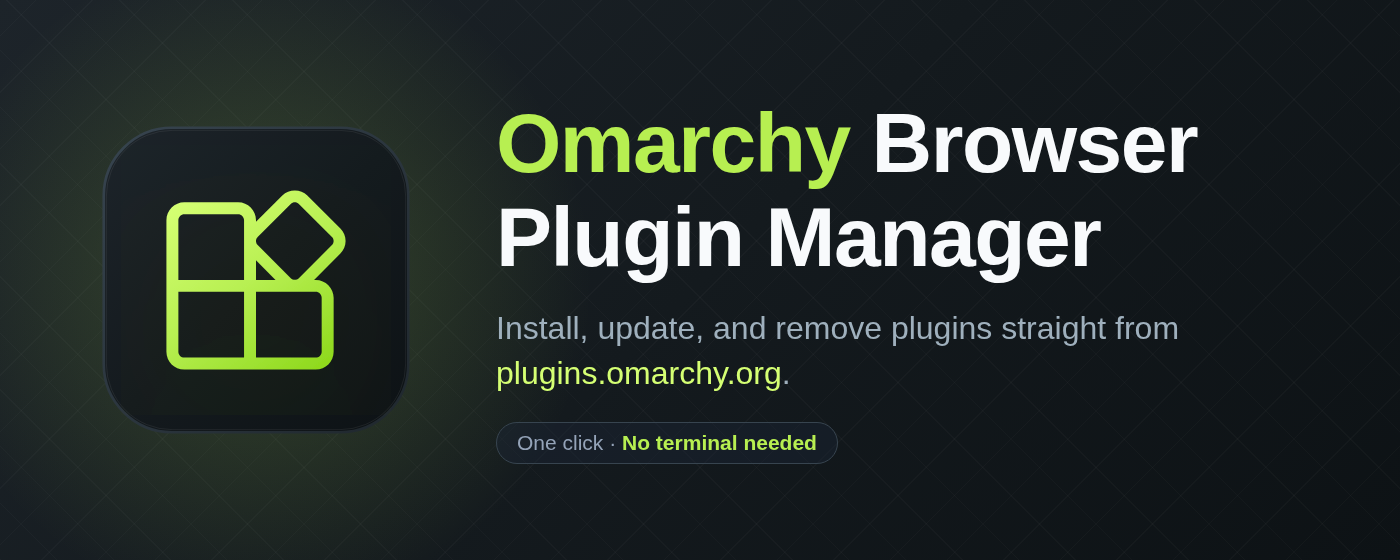
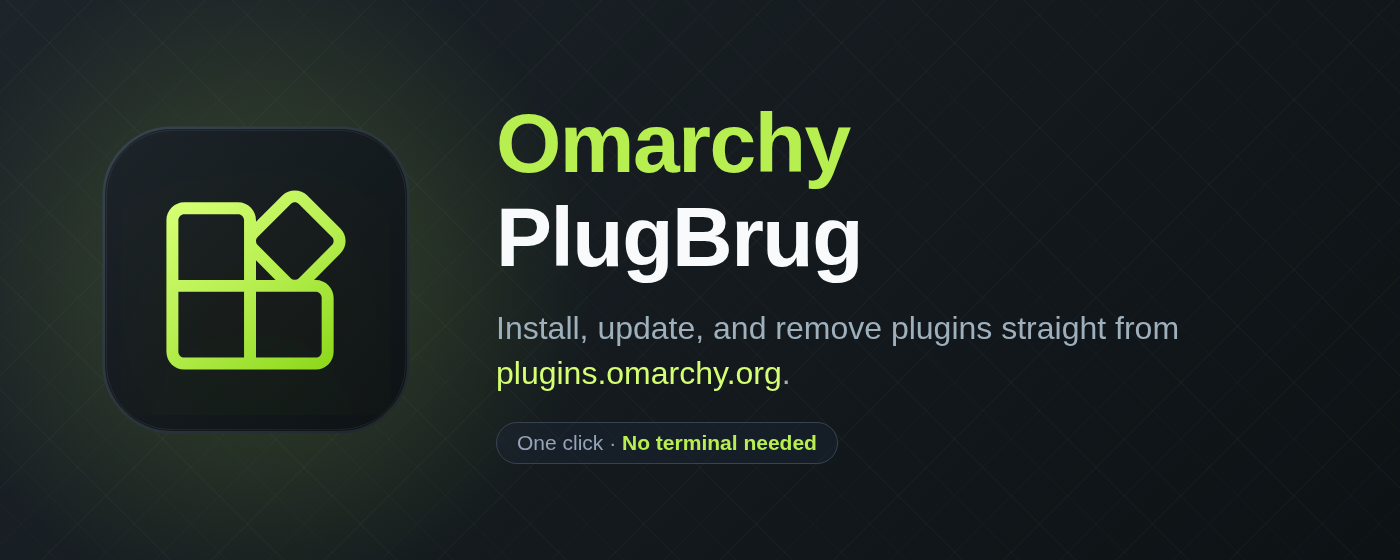
refactor(branding): rename plugin display name to PlugBrug
Rename "Omarchy Browser Plugin Manager" to "Omarchy PlugBrug" across
the shell plugin, extension, scripts, and docs, and update the images:
regenerate the preview banner and Chrome Web Store promo tiles, and
retypeset the settings-panel screenshot header from its own glyphs.

Changed region(s): [[0.4607, 0.3643, 0.7986, 0.5161], [0.6143, 0.1821, 0.86, 0.3036]]

diff --git a/BarWatch.qml b/BarWatch.qml
@@ -5,7 +5,7 @@ import Quickshell.Io
 import qs.Commons
 import qs.Ui
 
-// Omarchy Browser Plugin Manager bar widget (watcher mode).
+// Omarchy PlugBrug bar widget (watcher mode).
 //
 // The icon lights up while a focused browser window has an installable
 // plugin page on its active tab: the extension renews a beacon record with
@@ -1016,6 +1016,7 @@ Panel {
 
   function openMarketplace() {
     Quickshell.execDetached(["xdg-open", root.marketplaceUrl])
+    root.close()
   }
 
   // Install / Uninstall / Update go through the wizard (the project's
@@ -1517,7 +1518,7 @@ Panel {
     activeColor: Color.accent
     tooltipText: (root.beaconLive
       ? root.watchedName() + " \u00b7 open in browser"
-      : "Browser Plugin Manager")
+      : "PlugBrug")
       + (root.eligibleCount > 0
         ? " \u00b7 " + root.eligibleCount + " plugin" + (root.eligibleCount === 1 ? " has" : "s have")
           + " updates (right-click)"
@@ -1770,7 +1771,7 @@ Panel {
 
             Text {
               textFormat: Text.PlainText
-              text: root.popupLive ? root.watchedName() : "Browser Plugin Manager"
+              text: root.popupLive ? root.watchedName() : "PlugBrug"
               font.family: Style.font.family
               font.pixelSize: Style.font.title
               font.bold: true

diff --git a/preview/template.html b/preview/template.html
@@ -2,7 +2,7 @@
 <html lang="en">
 <head>
 <meta charset="UTF-8">
-<title>Browser Plugin Manager Preview Banner</title>
+<title>PlugBrug Preview Banner</title>
 <style>
   * { box-sizing: border-box; margin: 0; padding: 0; }
 
@@ -282,7 +282,7 @@
           <path d="M14 17.5a3.5 3.5 0 0 0 7 0 3.5 3.5 0 0 0-7 0"></path>
         </svg>
       </div>
-      <h1>Browser Plugin Manager</h1>
+      <h1>PlugBrug</h1>
     </div>
     <div class="subtitle">
       One-click installation and management for Omarchy plugins directly from the
@@ -401,12 +401,12 @@
 
     <!-- Card 2: Settings Panel -->
     <div class="card-settings">
-      <img src="settings_panel.png" alt="Browser Plugin Manager settings panel">
+      <img src="settings_panel.png" alt="PlugBrug settings panel">
     </div>
 
     <!-- Card 3: Install Wizard Card -->
     <div class="card-wizard">
-      <img src="wizard_confirm.png" alt="Browser Plugin Manager wizard plugin confirmation card">
+      <img src="wizard_confirm.png" alt="PlugBrug wizard plugin confirmation card">
     </div>
   </div>
 </body>

diff --git a/Wizard.qml b/Wizard.qml
@@ -5,7 +5,7 @@ import QtQuick
 import qs.Commons
 import qs.Ui
 
-// Omarchy Browser Plugin Manager wizard overlay.
+// Omarchy PlugBrug wizard overlay.
 // Summoned by the native messaging host (browser button click) or by the
 // bar widget's dropdown with payload {mode, id, repo, name}; the modes are
 // install / uninstall / enable / disable (host) and update (bar widget).
@@ -64,7 +64,7 @@ Item {
       return String(root.ownManifest.name)
     if (root.manifest && root.manifest.name)
       return String(root.manifest.name)
-    return "Browser Plugin Manager"
+    return "PlugBrug"
   }
 
   FileView {

diff --git a/store/promo-marquee.html b/store/promo-marquee.html
@@ -72,7 +72,7 @@
   <div class="glow"></div>
   <div class="logo">{{LOGO}}</div>
   <div class="copy">
-    <h1><span class="lime">Omarchy</span> Browser<br>Plugin Manager</h1>
+    <h1><span class="lime">Omarchy</span><br>PlugBrug</h1>
     <p>Install, update, and remove plugins straight from
        <span class="site">plugins.omarchy.org</span>.</p>
     <span class="chip">One click &middot; <b>No terminal needed</b></span>

diff --git a/browser/extension/catalog.js b/browser/extension/catalog.js
@@ -1,4 +1,4 @@
-// Omarchy Browser Plugin Manager - catalog page (index.html) content script.
+// Omarchy PlugBrug - catalog page (index.html) content script.
 // Places ONE icon-only action button directly left of each card's
 // "Copy install command" button (which keeps its own node and click
 // behavior, exactly like on the plugin pages), driven entirely by live

diff --git a/browser/extension/background.js b/browser/extension/background.js
@@ -1,4 +1,4 @@
-// Omarchy Browser Plugin Manager - background service worker (MV3).
+// Omarchy PlugBrug - background service worker (MV3).
 // Content scripts cannot open native messaging ports, so the extension
 // relays ping/status/action requests to the registered native host here.
 // Reuses a single native port with a FIFO queue while active and closes

diff --git a/store/promo-small.html b/store/promo-small.html
@@ -64,7 +64,7 @@
   <div class="glow"></div>
   <div class="row">
     <div class="logo">{{LOGO}}</div>
-    <h1><span class="lime">Omarchy</span><br>Plugin Manager</h1>
+    <h1><span class="lime">Omarchy</span><br>PlugBrug</h1>
   </div>
   <p>One-click installs from <span class="site">plugins.omarchy.org</span></p>
 </body>

diff --git a/browser/extension/content.js b/browser/extension/content.js
@@ -1,4 +1,4 @@
-// Omarchy Browser Plugin Manager - content script.
+// Omarchy PlugBrug - content script.
 // Adds action buttons to plugin detail pages, driven entirely by live local
 // state reported by the native messaging host (never by the page):
 //   not installed            -> "Install"

diff --git a/README.md b/README.md
@@ -1,4 +1,4 @@
-# Omarchy Browser Plugin Manager
+# Omarchy PlugBrug
 
 One-click plugin installs from [plugins.omarchy.org](https://plugins.omarchy.org).
 
@@ -10,7 +10,7 @@ One-click plugin installs from [plugins.omarchy.org](https://plugins.omarchy.org
 >   2. In Firefox, open `about:addons`, click the gear icon (⚙), and choose **Install Add-on From File...**.
 >   3. **Permissions requirement:** You must manually allow all requested permissions for the extension during installation or under the add-on's Permissions tab (access to `plugins.omarchy.org`, exchange messages with programs outside Firefox, and access browser tabs). Without these permissions enabled, the extension cannot communicate with the native messaging host and will not work. For additional details, see [documentation/INSTALL.md](documentation/INSTALL.md).
 
-![Omarchy Browser Plugin Manager](preview.png)
+![Omarchy PlugBrug](preview.png)
 
 **Bar-icon watcher**: the Omarchy bar icon lights up while a plugin page is
 the active tab. Left click opens a dropdown to **Install**, **Update**,

diff --git a/PRIVACY.md b/PRIVACY.md
@@ -1,10 +1,10 @@
-# Privacy Policy — Omarchy Browser Plugin Manager
+# Privacy Policy — Omarchy PlugBrug
 
 Last updated: 2026-10-28
 
 ## Data collection
 
-The Omarchy Browser Plugin Manager browser extension collects, stores, and
+The Omarchy PlugBrug browser extension collects, stores, and
 transmits **no user data**. It contains no analytics, no telemetry, no
 tracking code, and no remote server of its own.
 
